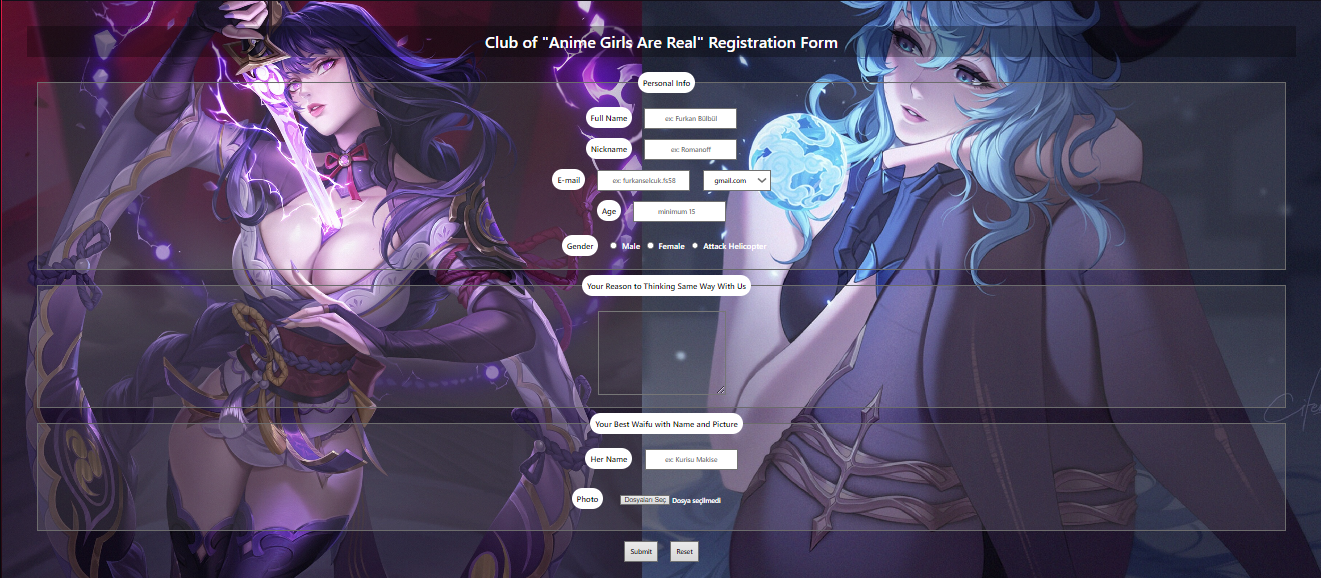
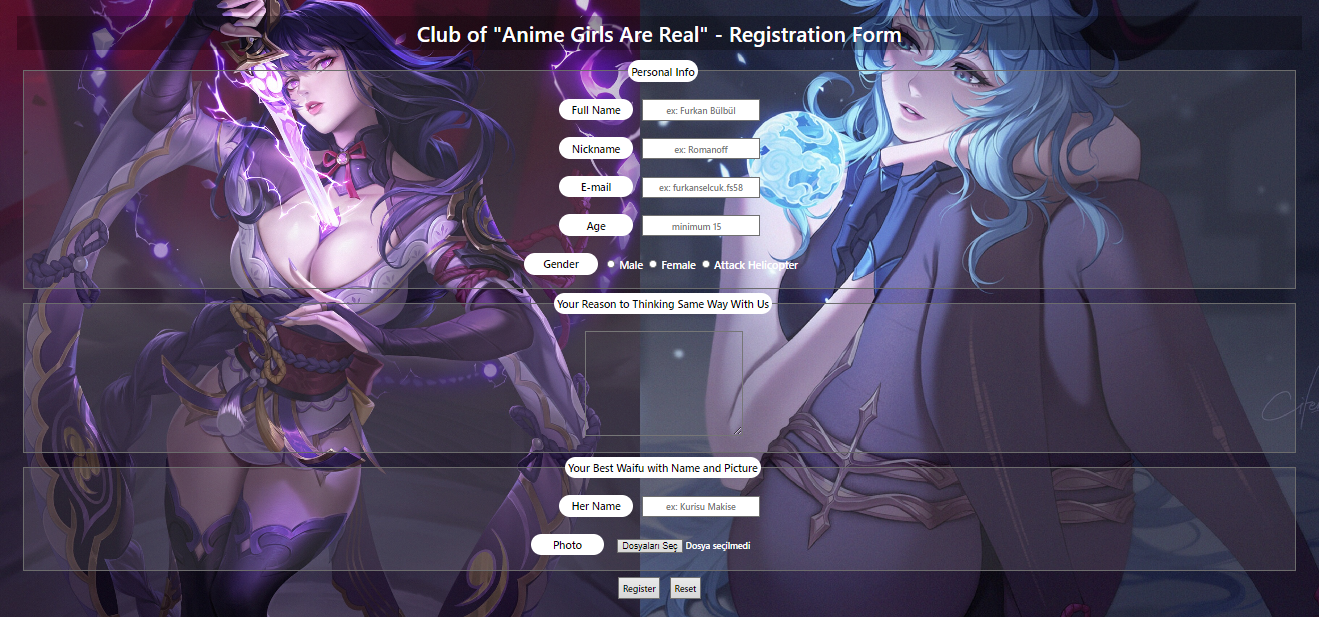
Registration Form

diff --git a/form.html b/form.html
@@ -18,21 +18,25 @@
 
         <legend>Personal Info</legend>
         
+      <div>
         <label for="name">Full Name</label>
         <input id="name" type="text" name="name" placeholder="ex: Furkan Bülbül" required/><br>
-
+      </div>
+      
+      <div>
         <label for="nickname">Nickname</label>
         <input id="nickname" type="text" name="nickname" placeholder="ex: Romanoff" required/><br>
-
+      </div>
+      
+      <div>
         <label for="email">E-mail</label>
         <input id="email" type="email" mame="email" placeholder="ex: furkanselcuk.fs58" required/>
-        <select name="email">
-          <option>gmail.com</option>
-          <option>hotmail.com</option>
-          <option>outlook.com</option></select><br>
+      </div>
 
+      <div>
         <label for="age">Age</label>
         <input id="age" type="number" name="age" placeholder="minimum 15" min="15" required><br>
+      </div>
     
       <div class="gender">
         <label for="gender">Gender</label>
@@ -46,16 +50,20 @@
 
         <legend for="reason">Your Reason to Thinking Same Way With Us</legend>
 
+      <div>
         <label class="reason" for="reason"></label>
         <textarea id="reason" name="reason" cols="30" rows="8" required></textarea><br>
+      </div>
 
       </fieldset>
       <fieldset>
 
         <legend>Your Best Waifu with Name and Picture</legend>
 
+      <div>
         <label for="waifu">Her Name</label>
         <input id="waifu" type="text" name="waifu" placeholder="ex: Kurisu Makise" required> <br>
+      </div> 
         
       <div class="file">
         <label for="file">Photo</label>

diff --git a/form.css b/form.css
@@ -1,7 +1,7 @@
 *{
     text-align: center;
-    margin: 10px;
-    padding: 10px;
+    margin: 5px;
+    padding: 5px;
     font-family:'Segoe UI', Tahoma, Geneva, Verdana, sans-serif;   
     font-weight: 500;
 }
@@ -30,6 +30,8 @@ legend{
 }
 
 label{
+    display: inline-block;
+    width: 100px;
     color: black;
     background-color: white;
     border-radius: 30px;
@@ -51,4 +53,5 @@ textarea{
 
 .reason{
     padding: 0px;
+    width: 0px;
 }
